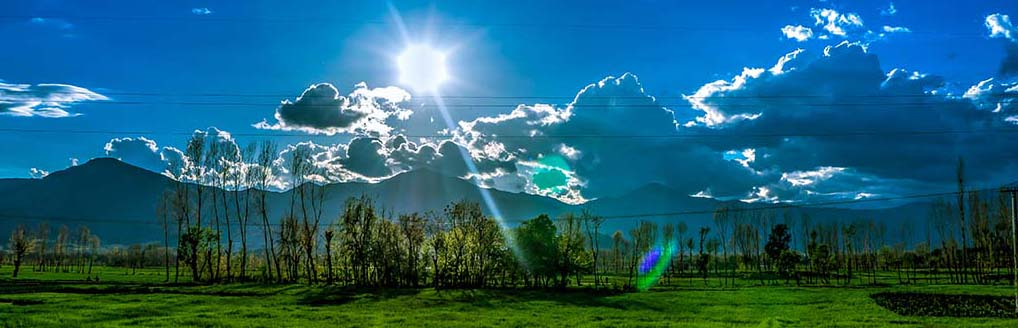
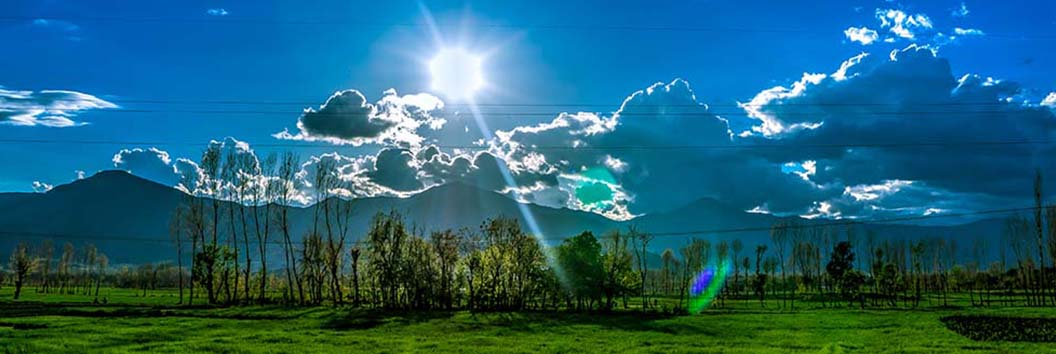
update

diff --git a/lesson6/preston.html b/lesson6/preston.html
@@ -53,7 +53,7 @@
               <source media="(max-width: 200px" srcset="images/hero200.jpg">
               <source media="(max-width: 500px" srcset="images/hero500.jpg">
               <source media="(max-width: 800px" srcset="images/hero800.jpg">
-              <img src="images/hero.jpg" alt="hero" >
+              <img src="images/hero1100.jpg" alt="hero" >
               
                 <!-- enhance-desktop 
                   <img src="images/hero.jpg" alt="heroban" sizes="50vw"
@@ -62,7 +62,7 @@
                   images/herolarge.jpg 1100w"> 
                 -->
           </picture> 
-          <!-- <picture class="myphotoB">
+          <!--<picture class="myphotoB">
             <source media="(max-width: 400px" srcset="images/hero200.jpg">
             <source media="(max-width: 1000px" srcset="images/hero500.jpg">
             <source media="(max-width: 1600px" srcset="images/hero800.jpg">
@@ -108,7 +108,14 @@
         </section>
 
         <h2>Don't be afraid, enjoy the winter</h2>
-        <img class="mid_ph" src="images/sportsw.jpg" alt="sports in winter">
+        <!--<img class="mid_ph" src="images/sportsw.jpg" alt="sports in winter"> -->
+         <picture class="myphotoB">
+            <source media="(max-width: 400px"  srcset="images/sportsw200.jpg">
+            <source media="(max-width: 1000px" srcset="images/sportsw500.jpg">
+            <source media="(max-width: 1600px" srcset="images/sportsw800.jpg">
+            <img src="images/sportsw1100.jpg" alt="sportsw" >
+            <div>Sports in winter</div>
+         </picture> 
           <div>
           <p>Winter sports or winter activities are competitive sports or non-competitive recreational activities which 
             are played on snow or ice.[1] Most are variations of skiing, ice skating and sledding. Traditionally, such 

diff --git a/lesson6/css/small.css b/lesson6/css/small.css
@@ -35,7 +35,6 @@ picture.photoB {
 }
 
 
-
 body {
     background-color: #fff;
     padding: 0;
